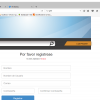
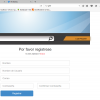
uploader
agregue un input file escondido con la direccion de la imagen para poder
guardarla con los forms

diff --git a/public_html/js/uploader.js b/public_html/js/uploader.js
@@ -247,6 +247,15 @@ function cropFile(){
 			row_img.appendChild(eliminar);	
 			list = document.getElementById('lista-imagenes');
 			list.appendChild(row_img);
+			// add url value 
+			var input_url = document.createElement('input'); 
+			input_url.type = "hidden";
+			input_url.id = "url_img"+list.getElementsByTagName("li").length;
+			input_url.name = "url_img"+list.getElementsByTagName("li").length;
+			input_url.value = "'"+ xhr2.responseText +"'";
+			row_img.appendChild(input_url);
+			
+			
 			// add width depending of the nume of image
 			var lis = list.getElementsByTagName("li");
 			var imgcontw= lis.length*125;

diff --git a/public_html/view/page-new-item.php b/public_html/view/page-new-item.php
@@ -31,11 +31,21 @@ require('layout/header.php');
 	<input type="text" name="item_address" id="item_address" class="form-control input-lg" placeholder="Napole-Italia   Fruisof-402" value="<?php if(isset($error)){ echo $_POST['item_address']; } ?>" required tabindex="4">
 </div>
 <div class="form-group">
-	<input type="text" name="item_type" id="item_type" class="form-control input-lg" placeholder="Lost/Found" value="<?php if(isset($error)){ echo $_POST['item_type']; } ?>" required tabindex="5">
+	<select class="form-control">
+		<option value="Found">ID</option>
+		<option value="Found">Passport</option>
+	</select>
+</div>
+<div class="form-group">
+	<select class="form-control">
+		<option value="Found">Found</option>
+		<option value="Found">Lost</option>
+	</select>
 </div>
 <div class="form-group">
 	<input type="text" name="item_type" id="item_type" class="form-control input-lg" placeholder="Lost/Found" value="<?php if(isset($error)){ echo $_POST['item_type']; } ?>" required tabindex="5">
 </div>
+
 <?php
 //include header template
 require('layout/footer.php');
